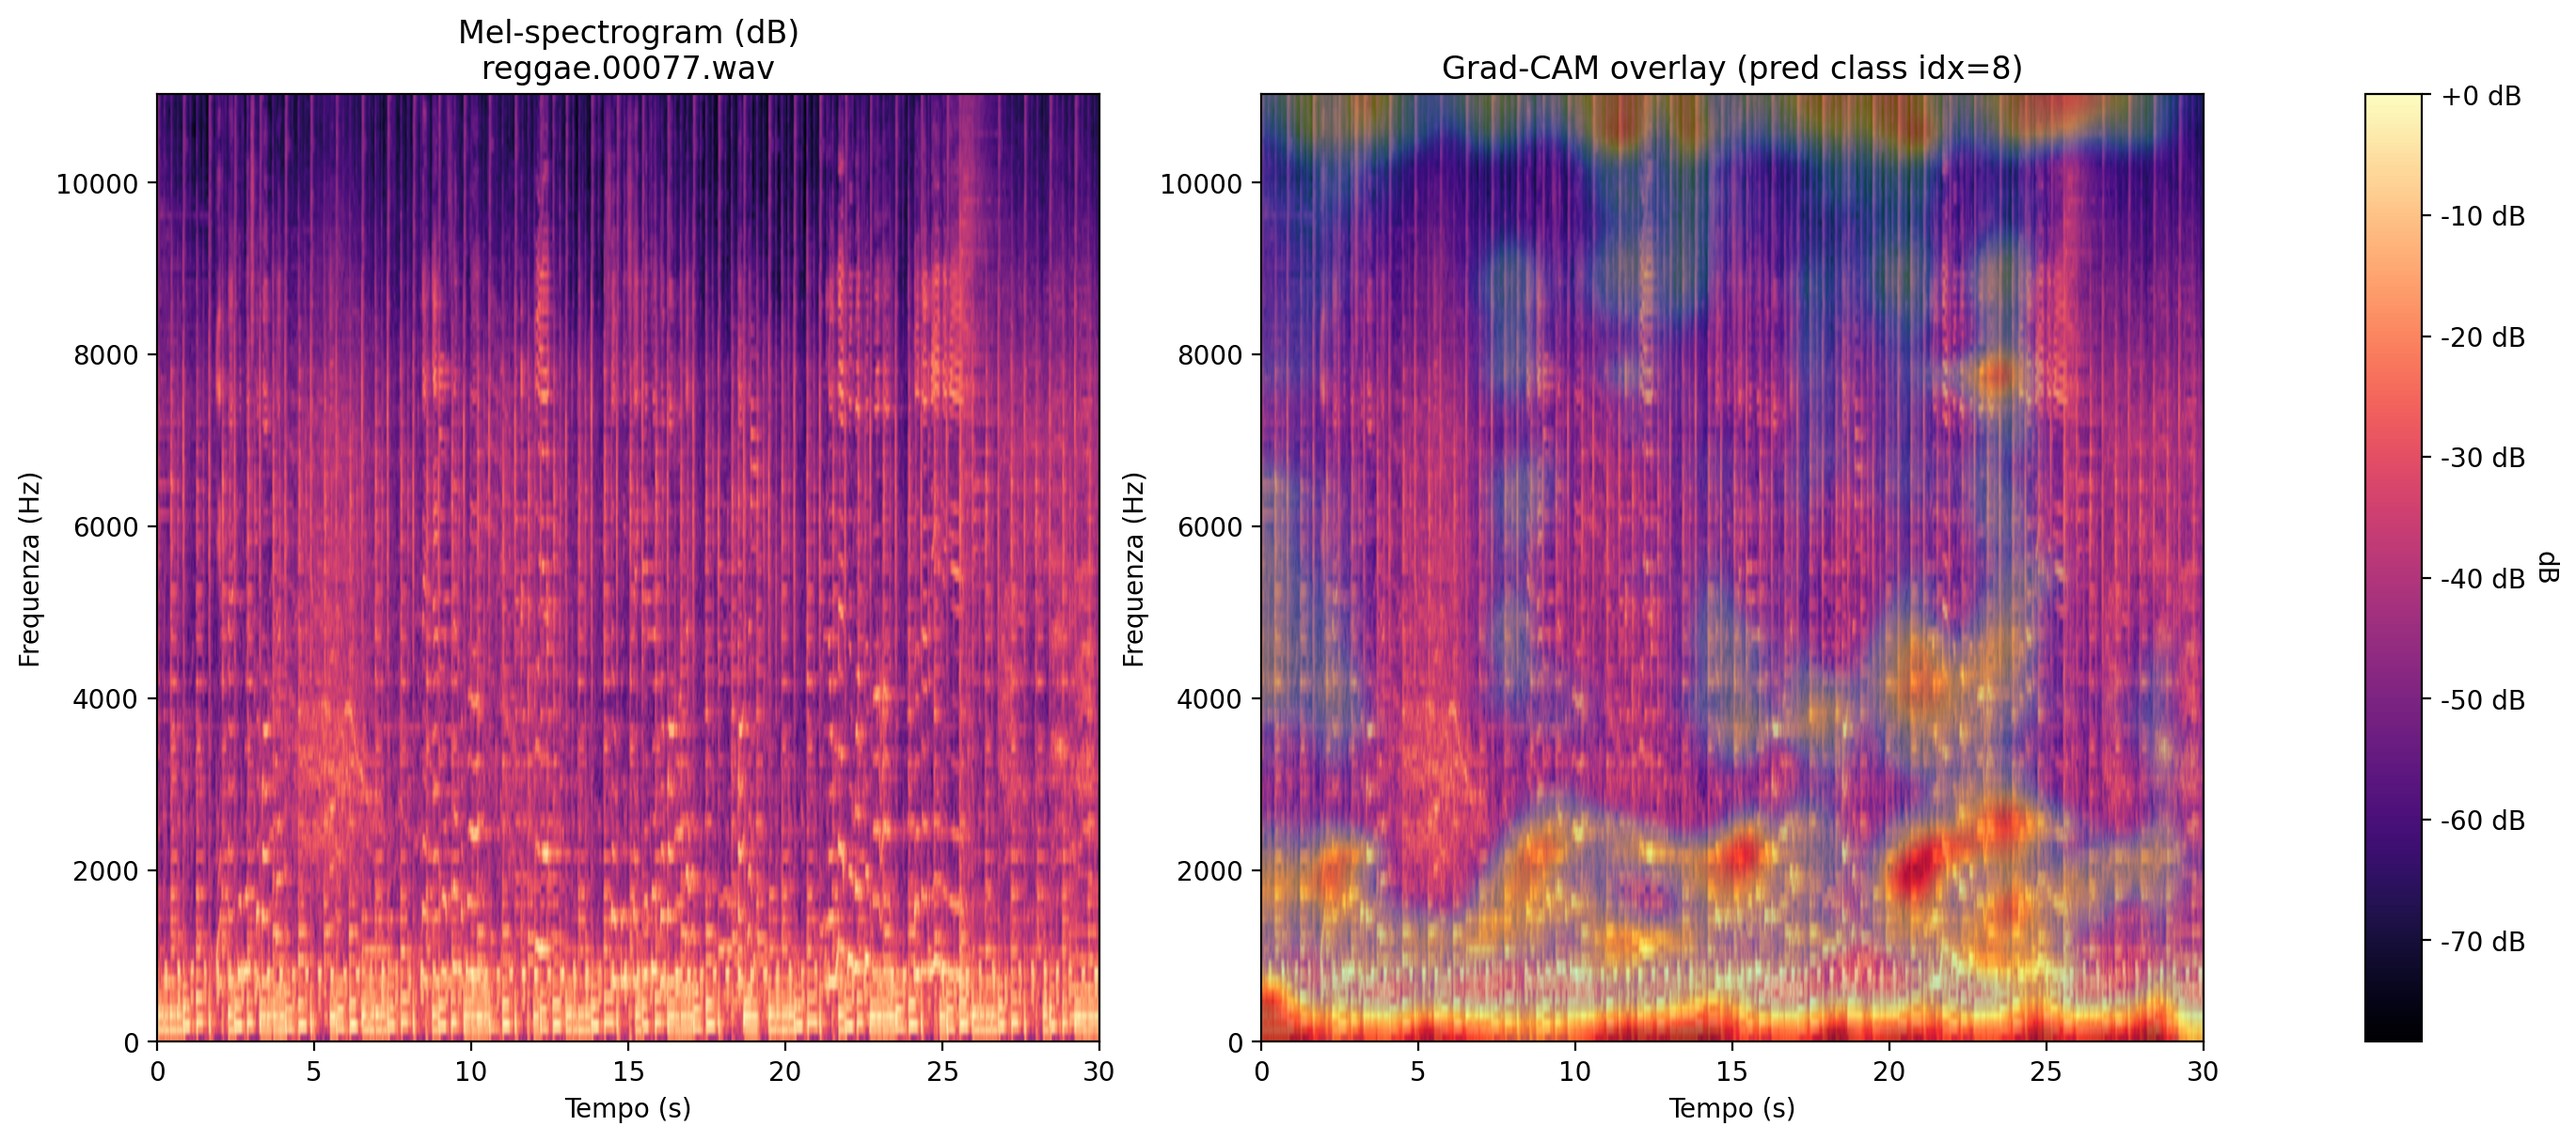
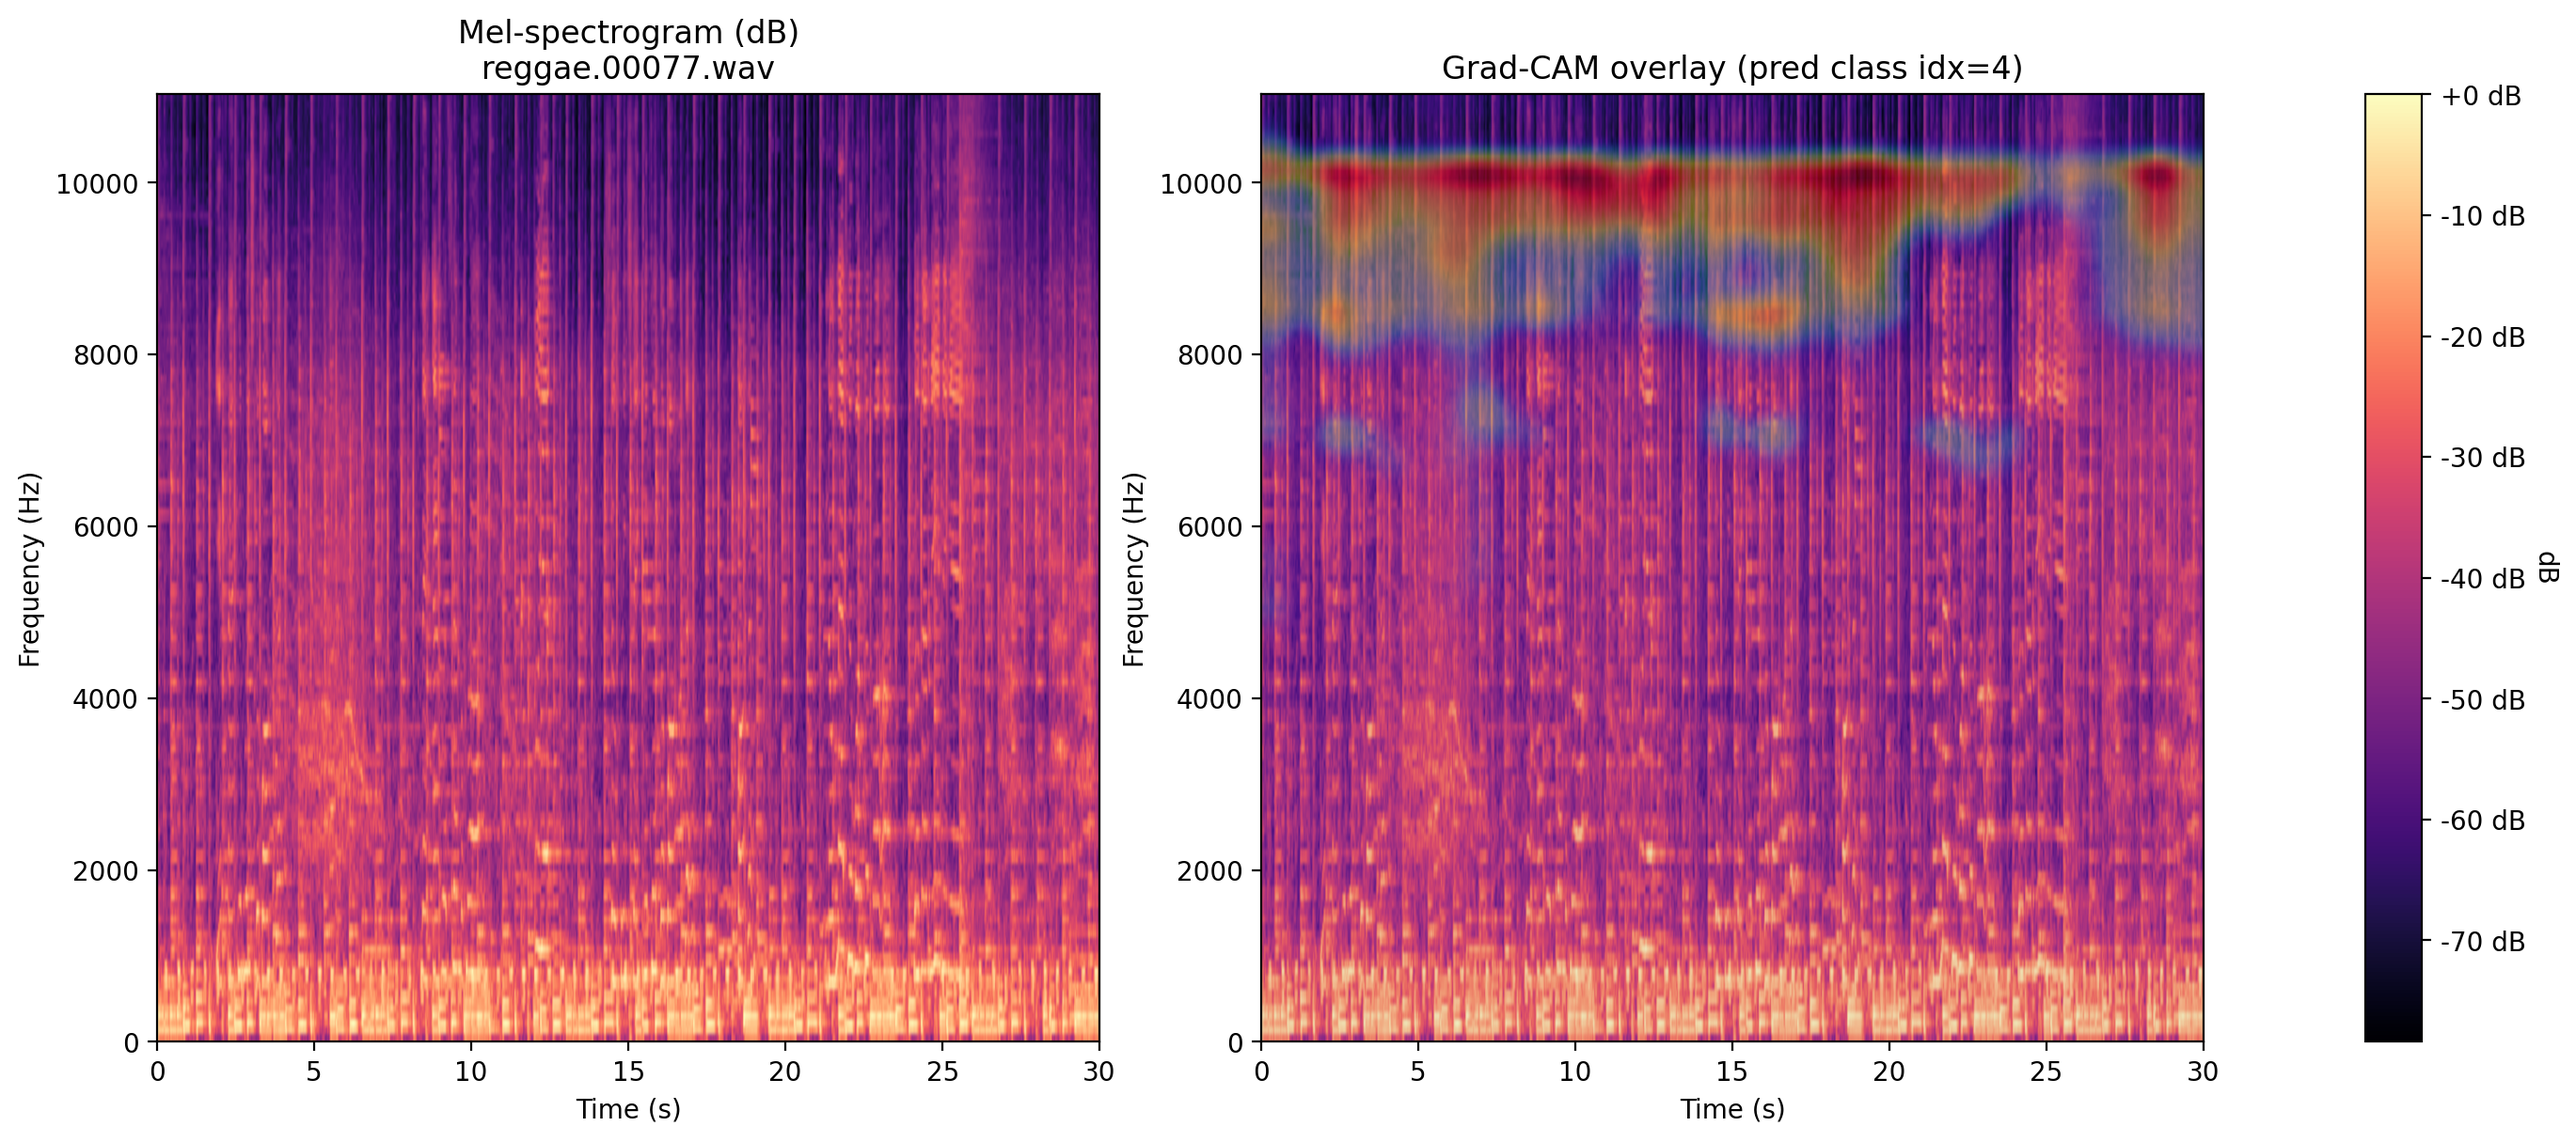
Modifiche

Changed region(s): [[0.4655, 0.0609, 0.8689, 0.9136], [0.6517, 0.944, 0.6827, 1.0], [0.2172, 0.944, 0.2793, 0.9745]]

diff --git a/src/preprocessing.py b/src/preprocessing.py
@@ -892,10 +892,10 @@ def main():
 
     plt.figure(figsize=(6, 6))
     plt.imshow(first_mfcc_image, cmap='viridis', origin='lower', aspect='auto')
-    plt.title(f"MFCC-image per {sample_genre_label}")
-    plt.colorbar(label='Ampiezza Normalizzata')
-    plt.xlabel("Tempo (frame riscalati)")
-    plt.ylabel("MFCC Coefficienti (riscalati)")
+    plt.title(f"MFCC-image for {sample_genre_label}")
+    plt.colorbar(label='Normalized Amplitude')
+    plt.xlabel("Time (rescaled frames)")
+    plt.ylabel("MFCC Coefficients (rescaled)")
     plt.tight_layout()
     plt.show()
 # --- FINE MODIFICA ---
@@ -957,7 +957,7 @@ def main():
 
 
     # LSTM su sequenze MFCC
-    print("\n5a) LSTM su sequenze MFCC (senza PCA)...")
+    print("\n5a) LSTM su sequenze MFCC (without  PCA)...")
     N, seq_len, n_mfcc = X_seq.shape
     X_seq_train, X_seq_test, y_seq_train, y_seq_test = train_test_split(
         X_seq, y_enc, test_size=TEST_SIZE, stratify=y_enc, random_state=RANDOM_STATE)
@@ -970,10 +970,10 @@ def main():
                                                 callbacks=[es_lstm_no_pca], verbose=2)
     lstm_proba_no_pca = lstm_model_no_pca.predict(X_seq_test)
     lstm_pred_no_pca = np.argmax(lstm_proba_no_pca, axis=1)
-    print("LSTM (senza PCA) accuracy:", accuracy_score(y_seq_test, lstm_pred_no_pca))
+    print("LSTM (without  PCA) accuracy:", accuracy_score(y_seq_test, lstm_pred_no_pca))
     print(classification_report(y_seq_test, lstm_pred_no_pca, target_names=classes, zero_division=0))
-    plot_confusion(confusion_matrix(y_seq_test, lstm_pred_no_pca), classes, title="LSTM (senza PCA) Confusion")
-    plot_training_curves(history_lstm_no_pca, title_prefix="LSTM (MFCC seq senza PCA)")
+    plot_confusion(confusion_matrix(y_seq_test, lstm_pred_no_pca), classes, title="LSTM (without  PCA) Confusion")
+    plot_training_curves(history_lstm_no_pca, title_prefix="LSTM (MFCC seq without  PCA)")
 
     print("\n5b) LSTM su sequenze MFCC con PCA per frame...")
     X_seq_flat = X_seq.reshape(N, seq_len * n_mfcc)
@@ -1001,7 +1001,7 @@ def main():
     lstm_pred_pca = np.argmax(lstm_proba_pca, axis=1)
     print("LSTM (con PCA) accuracy:", accuracy_score(y_seq_test, lstm_pred_pca))
     print(classification_report(y_seq_test, lstm_pred_pca, target_names=classes, zero_division=0))
-    plot_confusion(confusion_matrix(y_seq_test, lstm_pred_pca), classes, title="LSTM (PCA sui frame) Confusion")
+    plot_confusion(confusion_matrix(y_seq_test, lstm_pred_pca), classes, title="LSTM (PCA on frames) Confusion")
     plot_training_curves(history_lstm_pca, title_prefix="LSTM (MFCC seq + PCA)")
 
 
@@ -1068,8 +1068,8 @@ def main():
         im_mel = plt.imshow(S_db, origin='lower', aspect='auto', extent=extent_calc, cmap='magma')
         plt.colorbar(im_mel, format='%+2.0f dB', label='dB')
         plt.title(f"Mel-spectrogram (dB)\n{os.path.basename(sample_file)}") # [2]
-        plt.xlabel("Tempo (s)") # [2]
-        plt.ylabel("Frequenza (Hz)") # [2]
+        plt.xlabel("Time (s)") # [2]
+        plt.ylabel("Frequency (Hz)") # [2]
         plt.tight_layout()
         plt.show() # Mostra la figura
 
@@ -1085,8 +1085,8 @@ def main():
     plt.figure(figsize=(8, 6))
     # Visualizza la heatmap [8]
     plt.imshow(heatmap, cmap='jet', aspect='auto') # 'jet' è una colormap comune per le heatmap
-    plt.colorbar(label='Intensità di Attivazione')
-    plt.title(f"Grad-CAM Heatmap Pura (Indice Classe Predetta: {pred_idx})")
+    plt.colorbar(label='Activation Intensity')
+    plt.title(f"Pure Grad-CAM Heatmap (Predicted Class Index: {pred_idx})")
     plt.tight_layout()
     plt.show() # Mostra la figura
 
